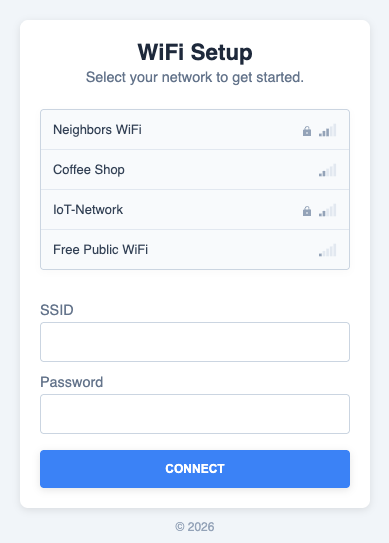
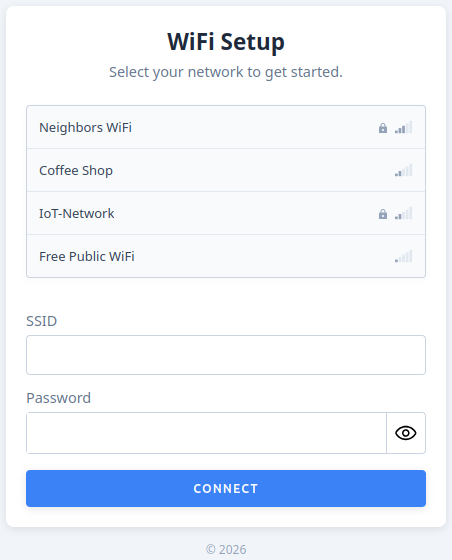
wip: Hide wifi password in the UI.
An "eye" icon allow seeng what you typed when pressed.

diff --git a/src/html/portal.html b/src/html/portal.html
@@ -53,13 +53,32 @@
 				font-size: 0.9em;
 				color: #64748b;
 			}
-			input[type='text'] {
+			input[type='text'], input[type='password'] {
 				width: 100%;
 				box-sizing: border-box;
 				padding: 10px;
 				border: 1px solid #cbd5e1;
 				border-radius: 4px;
 				font-size: 1em;
+			}
+			.password-line {
+				display: flex;
+				align-items: stretch;
+				width:100%;
+				border: 1px solid #cbd5e1;
+				border-radius: 4px;
+				box-sizing: border-box;
+			}
+			.password-line input[type='text'], .password-line input[type='password'] {
+				padding: 10px;
+				border: none;
+				border-right: 1px solid #cbd5e1;
+				border-radius: 0px;
+			}
+			#v {
+				height: 1.5em;
+				width: 1.5em;
+				padding: 0.5em;
 			}
 			button {
 				margin-top: 16px;
@@ -185,7 +204,10 @@
 					<label for="s">SSID</label>
 					<input type="text" id="s" name="ssid" required maxlength="32" autocomplete="off" />
 					<label for="p">Password</label>
-					<input type="text" id="p" name="password" maxlength="64" autocomplete="off" />
+					<div class="password-line">
+						<input type="password" id="p" name="password" maxlength="64" autocomplete="off">
+                        <svg id="v" width="800px" height="800px" viewBox="0 0 24 24" fill="none"></svg>
+					</div>
 					<div id="err" class="error" style="display: none"></div>
 					<button type="submit" id="btn">Connect</button>
 				</form>
@@ -306,6 +328,27 @@
 						btn.textContent = 'Connect'
 					})
 			})
+            function hidePassword(b) {
+                var p = document.getElementById("p")
+                var v = document.getElementById("v")
+                if (b) {
+                    p.setAttribute("type", "password")
+                    v.innerHTML = `
+                        <path d="M1 12C1 12 5 4 12 4C19 4 23 12 23 12" stroke="#000000" stroke-width="2" stroke-linecap="round" stroke-linejoin="round"/>
+                        <path d="M1 12C1 12 5 20 12 20C19 20 23 12 23 12" stroke="#000000" stroke-width="2" stroke-linecap="round" stroke-linejoin="round"/>
+                        <circle cx="12" cy="12" r="3" stroke="#000000" stroke-width="2" stroke-linecap="round" stroke-linejoin="round"/>
+                    `
+                } else {
+                    p.setAttribute("type", "text")
+                    v.innerHTML = `
+                        <path d="M2 2L22 22" stroke="#000000" stroke-width="2" stroke-linecap="round" stroke-linejoin="round"/>
+                        <path d="M6.71277 6.7226C3.66479 8.79527 2 12 2 12C2 12 5.63636 19 12 19C14.0503 19 15.8174 18.2734 17.2711 17.2884M11 5.05822C11.3254 5.02013 11.6588 5 12 5C18.3636 5 22 12 22 12C22 12 21.3082 13.3317 20 14.8335" stroke="#000000" stroke-width="2" stroke-linecap="round" stroke-linejoin="round"/>
+                        <path d="M14 14.2362C13.4692 14.7112 12.7684 15.0001 12 15.0001C10.3431 15.0001 9 13.657 9 12.0001C9 11.1764 9.33193 10.4303 9.86932 9.88818" stroke="#000000" stroke-width="2" stroke-linecap="round" stroke-linejoin="round"/>
+                    `
+                }
+            }
+            document.getElementById("v").addEventListener("click", e => hidePassword(document.getElementById("p").getAttribute("type")=="text"))
+            hidePassword(true)
 		</script>
 	</body>
 </html>